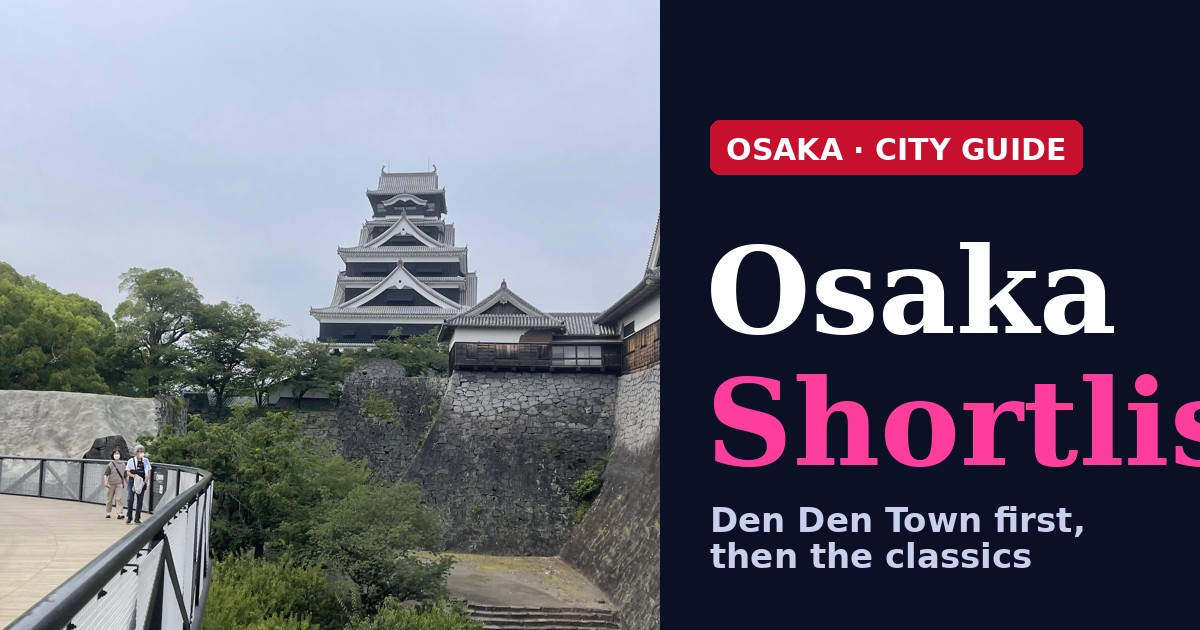
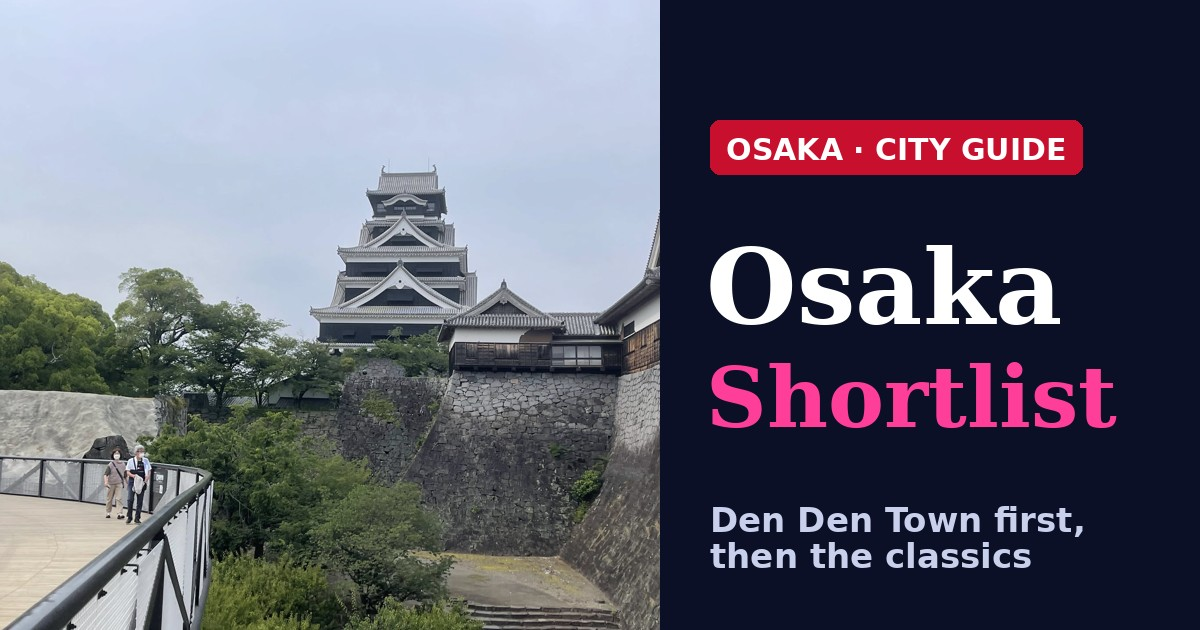
Fix OGP candidate 1 title overflow

Changed region(s): [[0.5858, 0.573, 1.0, 0.754], [0.5858, 0.3619, 0.925, 0.5429]]

diff --git a/ogp/make_ogp.py b/ogp/make_ogp.py
@@ -54,8 +54,8 @@ im = Image.new("RGB", (W, H), NAVY)
 im.paste(cover(castle, 660, H), (0, 0))
 d = ImageDraw.Draw(im)
 chip(d, 710, 120, "OSAKA · CITY GUIDE", RED)
-d.text((706, 220), "Osaka", font=font(True, 120), fill=WHITE)
-d.text((706, 352), "Shortlist", font=font(True, 120), fill=PINK)
+d.text((706, 226), "Osaka", font=font(True, 104), fill=WHITE)
+d.text((706, 348), "Shortlist", font=font(True, 84), fill=PINK)
 d.text((710, 500), "Den Den Town first,\nthen the classics", font=font(False, 34), fill=(200, 208, 235))
 im.save(OUT / "ogp-1.jpg", quality=90)
 
